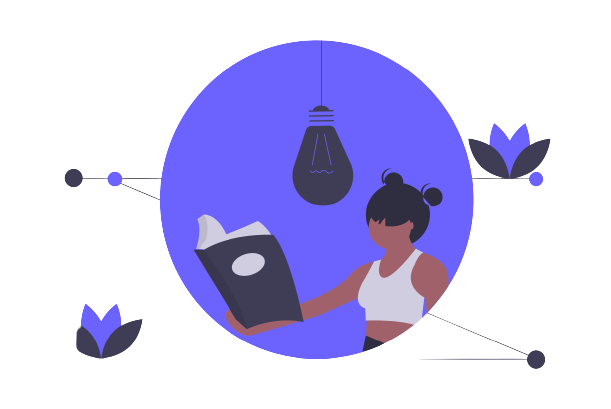
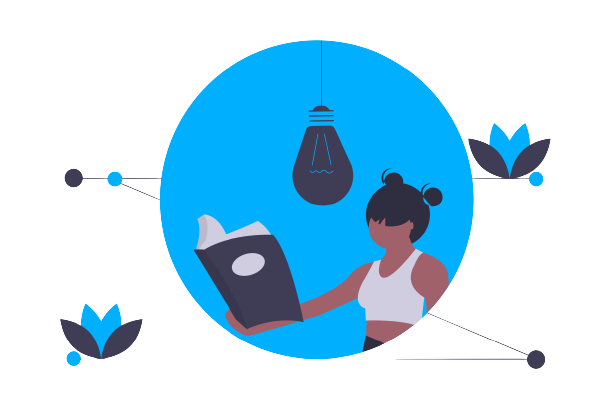
master

diff --git a/bookstore/lib/search.dart b/bookstore/lib/search.dart
@@ -1,0 +1,124 @@
+import 'package:flutter/material.dart';
+
+import 'onboardingScreen.dart';
+
+class Search extends StatefulWidget {
+  @override
+  _Search createState() => _Search();
+}
+
+class _Search extends State<Search> {
+  @override
+  Widget build(BuildContext context) {
+    return Scaffold(
+      body: Container(
+        margin: EdgeInsets.only(top: 40, left: 20, right: 20),
+        child: Column(
+          crossAxisAlignment: CrossAxisAlignment.start,
+          children: [
+            Text(
+              "Pencarian",
+              style: TextStyle(fontWeight: FontWeight.bold, fontSize: 30),
+            ),
+            Container(
+              margin: EdgeInsets.only(top: 13),
+              decoration: BoxDecoration(
+                  color: Colors.grey[300],
+                  borderRadius: BorderRadius.all(Radius.circular(10))),
+              child: Row(
+                children: [
+                  Expanded(
+                    child: TextFormField(
+                      decoration: InputDecoration(
+                          hintText: "Cari..",
+                          border: InputBorder.none,
+                          contentPadding: EdgeInsets.only(left: 15)),
+                    ),
+                  ),
+                  Container(
+                    margin: EdgeInsets.only(right: 20),
+                    child: Icon(
+                      Icons.search,
+                      size: 25,
+                    ),
+                  )
+                ],
+              ),
+            ),
+            Expanded(
+                child: Padding(
+              padding: const EdgeInsets.only(top: 100),
+              child: GridView.count(
+                  mainAxisSpacing: 50,
+                  crossAxisSpacing: 20,
+                  primary: false,
+                  crossAxisCount: 2,
+                  children: <Widget>[
+                    Card(
+                      child: Column(
+                        children: <Widget>[
+                          Image.asset('assets/images/book1.png',
+                              height: 100, width: 100),
+                          Padding(
+                            padding: const EdgeInsets.only(top: 10),
+                            child: RaisedButton(
+                              onPressed: () {},
+                              child: Text("Link"),
+                            ),
+                          ),
+                        ],
+                      ),
+                    ),
+                    Card(
+                      child: Column(
+                        children: <Widget>[
+                          Image.asset('assets/images/book1.png',
+                              height: 100, width: 100),
+                          Padding(
+                            padding: const EdgeInsets.only(top: 10),
+                            child: RaisedButton(
+                              onPressed: () {},
+                              child: Text("Link"),
+                            ),
+                          ),
+                        ],
+                      ),
+                    ),
+                    Card(
+                      child: Column(
+                        children: <Widget>[
+                          Image.asset('assets/images/book1.png',
+                              height: 100, width: 100),
+                          Padding(
+                            padding: const EdgeInsets.only(top: 10),
+                            child: RaisedButton(
+                              onPressed: () {},
+                              child: Text("Link"),
+                            ),
+                          ),
+                        ],
+                      ),
+                    ),
+                    Card(
+                      child: Column(
+                        children: <Widget>[
+                          Image.asset('assets/images/book1.png',
+                              height: 100, width: 100),
+                          Padding(
+                            padding: const EdgeInsets.only(top: 10),
+                            child: RaisedButton(
+                              onPressed: () {},
+                              child: Text("Link"),
+                            ),
+                          ),
+                        ],
+                      ),
+                    ),
+                  ]),
+            ))
+          ],
+        ),
+      ),
+    );
+  }
+}

diff --git a/bookstore/lib/onboardingScreen.dart b/bookstore/lib/onboardingScreen.dart
@@ -1,3 +1,4 @@
+import 'package:bookstore/search.dart';
 import 'package:bookstore/styles.dart';
 import 'package:flutter/material.dart';
 import 'package:flutter/services.dart';
@@ -27,7 +28,7 @@ class _OnboardingScreenState extends State<OnboardingScreen> {
       height: 8.0,
       width: isActive ? 24.0 : 16.0,
       decoration: BoxDecoration(
-        color: isActive ? Colors.white : Color(0xFF7B51D3),
+        color: isActive ? Colors.white : Colors.blue,
         borderRadius: BorderRadius.all(Radius.circular(12)),
       ),
     );
@@ -45,10 +46,10 @@ class _OnboardingScreenState extends State<OnboardingScreen> {
               end: Alignment.bottomCenter,
               stops: [0.1, 0.4, 0.7, 0.9],
               colors: [
-                Color(0xFF3594DD),
-                Color(0xFF4563DB),
-                Color(0xFF5036D5),
-                Color(0xFF5B16D0),
+                Color(0xFF00a8FF),
+                Color(0xFF00a8FF),
+                Color(0xFF00a8FF),
+                Color(0xFF00a8FF),
               ],
             ),
           ),
@@ -76,7 +77,7 @@ class _OnboardingScreenState extends State<OnboardingScreen> {
                             Center(
                               child: Image(
                                 image: AssetImage(
-                                  'assets/images/undraw_book_lover_mkck-removebg-preview.png',
+                                  'assets/images/undraw_book_lover_mkck__1_-removebg-preview.png',
                                 ),
                                 height: 300.0,
                                 width: 500.0,
@@ -103,7 +104,7 @@ class _OnboardingScreenState extends State<OnboardingScreen> {
                             Center(
                               child: Image(
                                 image: AssetImage(
-                                  'assets/images/undraw_Mobile_app_p3ts-removebg-preview.png',
+                                  'assets/images/undraw_Mobile_app_p3ts__1_-removebg-preview.png',
                                 ),
                                 height: 300.0,
                                 width: 500.0,
@@ -200,19 +201,21 @@ class _OnboardingScreenState extends State<OnboardingScreen> {
               height: 80.0,
               width: double.infinity,
               color: Colors.white,
-              child: GestureDetector(
-                onTap: () => print('Get started'),
-                child: Center(
-                  child: Padding(
-                    padding: EdgeInsets.only(bottom: 30.0),
-                    child: Text(
-                      'Get started',
-                      style: TextStyle(
-                        color: Color(0xFF5B16D0),
-                        fontSize: 20.0,
-                        fontWeight: FontWeight.bold,
-                      ),
-                    ),
+              child: TextButton(
+                onPressed: () {
+                  Navigator.of(context)
+                      .push(MaterialPageRoute(builder: (context) => Search()));
+                },
+                child: Padding(
+                  padding: EdgeInsets.all(10.0),
+                  child: Column(
+                    children: <Widget>[
+                      Text(
+                        'Get Started',
+                        style:
+                            TextStyle(fontSize: 25.0, color: Colors.blue[600]),
+                      )
+                    ],
                   ),
                 ),
               ),
